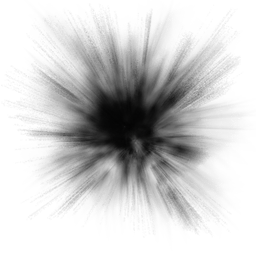
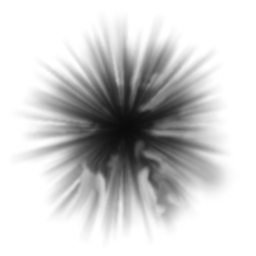
Fix teleporters compatibility; add new scorch texture made by me since makke's one is BY-NC; improve licensing infos.

diff --git a/packages/library/1_1/mapelements/Teleporters.js b/packages/library/1_1/mapelements/Teleporters.js
@@ -24,7 +24,7 @@ TeleporterPlugin = {
                 collider.position = teleDests[0].position.copy();
                 collider.yaw = teleDests[0].yaw;
                 collider.velocity = [0, 0, 0]; // reset velocity ..
-                Sound.play(this.soundName); // play teleport sound
+                if (this.soundname) Sound.play(this.soundName); // play teleport sound
             }
             else log(ERROR, "Wrong number of teledests (0 or > 1): " + teleDests.length);
         }
@@ -32,7 +32,7 @@ TeleporterPlugin = {
             collider.position = this.target; // Simply place the collider at the target
             collider.yaw = (this.targetYaw) ? this.targetYaw : collider.yaw; // adjust yaw, too.
             collider.velocity = [0, 0, 0];
-            Sound.play(this.soundName); // play teleport sound
+            if (this.soundname) Sound.play(this.soundName); // play teleport sound
         }
     }
 };

diff --git a/packages/library/1_2/mapelements/Teleporters.js b/packages/library/1_2/mapelements/Teleporters.js
@@ -24,7 +24,7 @@ TeleporterPlugin = {
                 collider.position = teleDests[0].position.copy();
                 collider.yaw = teleDests[0].yaw;
                 collider.velocity = [0, 0, 0]; // reset velocity ..
-                Sound.play(this.soundName); // play teleport sound
+                if (this.soundname) Sound.play(this.soundName); // play teleport sound
             }
             else log(ERROR, "Wrong number of teledests (0 or > 1): " + teleDests.length);
         }
@@ -32,7 +32,7 @@ TeleporterPlugin = {
             collider.position = this.target; // Simply place the collider at the target
             collider.yaw = (this.targetYaw) ? this.targetYaw : collider.yaw; // adjust yaw, too.
             collider.velocity = [0, 0, 0];
-            Sound.play(this.soundName); // play teleport sound
+            if (this.soundname) Sound.play(this.soundName); // play teleport sound
         }
     }
 };

diff --git a/packages/library/1_3/mapelements/Teleporters.js b/packages/library/1_3/mapelements/Teleporters.js
@@ -24,7 +24,7 @@ TeleporterPlugin = {
                 collider.position = teleDests[0].position.copy();
                 collider.yaw = teleDests[0].yaw;
                 collider.velocity = [0, 0, 0]; // reset velocity ..
-                Sound.play(this.soundName); // play teleport sound
+                if (this.soundname) Sound.play(this.soundName); // play teleport sound
             }
             else log(ERROR, "Wrong number of teledests (0 or > 1): " + teleDests.length);
         }
@@ -32,7 +32,7 @@ TeleporterPlugin = {
             collider.position = this.target; // Simply place the collider at the target
             collider.yaw = (this.targetYaw) ? this.targetYaw : collider.yaw; // adjust yaw, too.
             collider.velocity = [0, 0, 0];
-            Sound.play(this.soundName); // play teleport sound
+            if (this.soundname) Sound.play(this.soundName); // play teleport sound
         }
     }
 };
